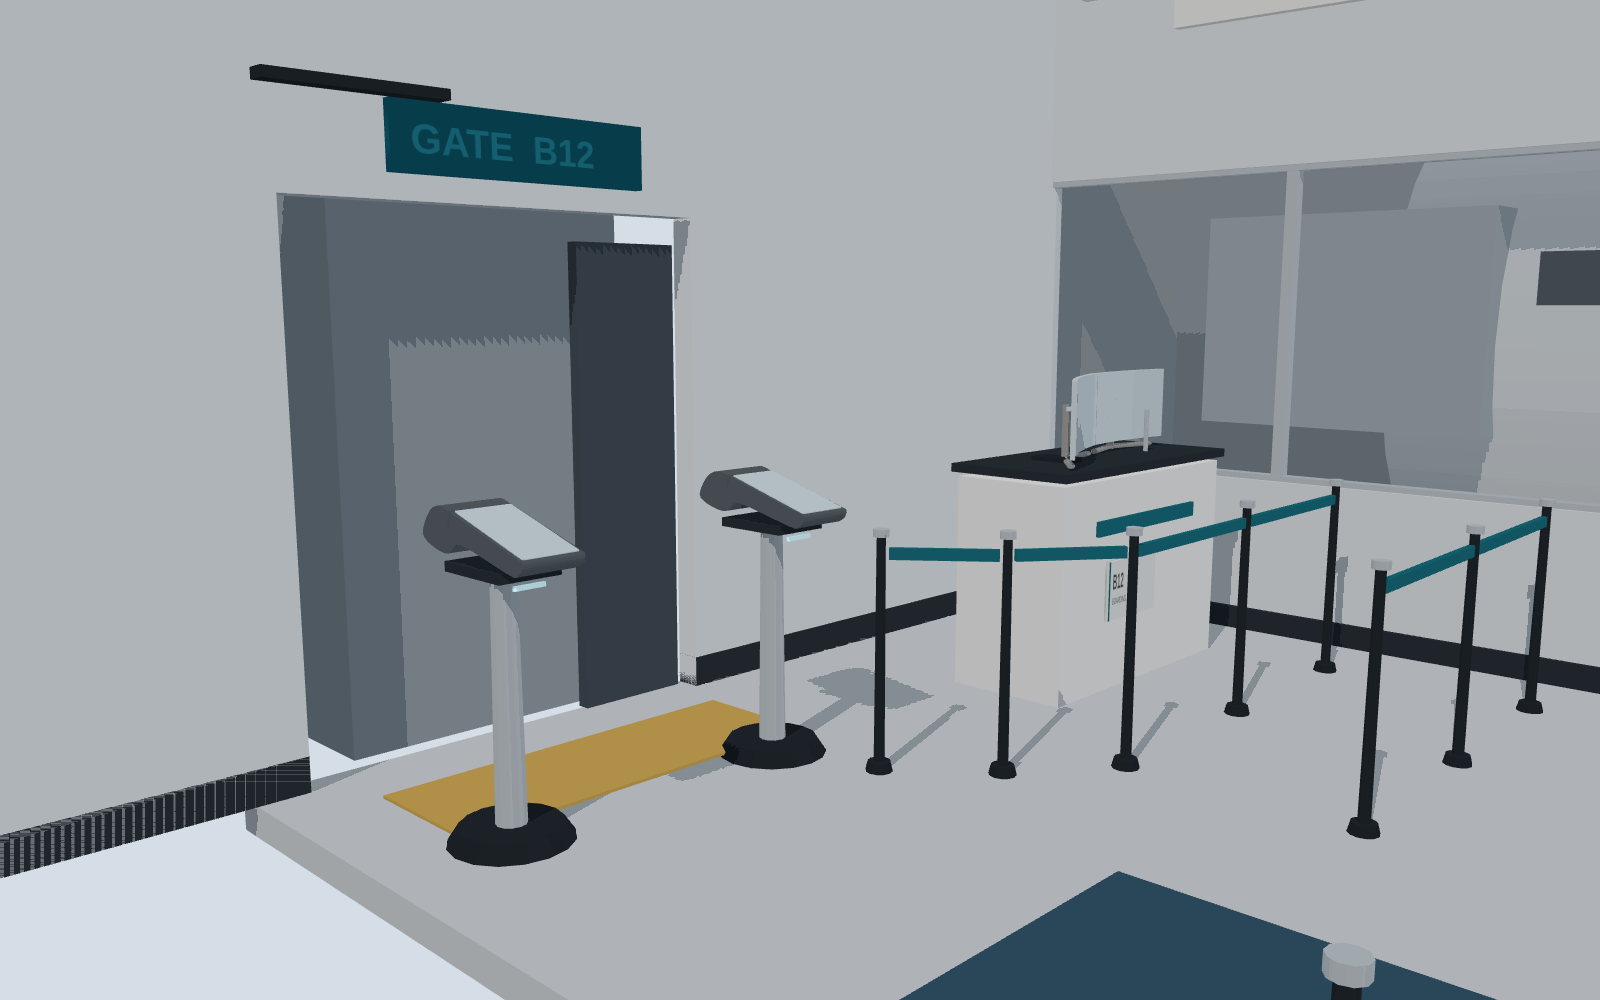
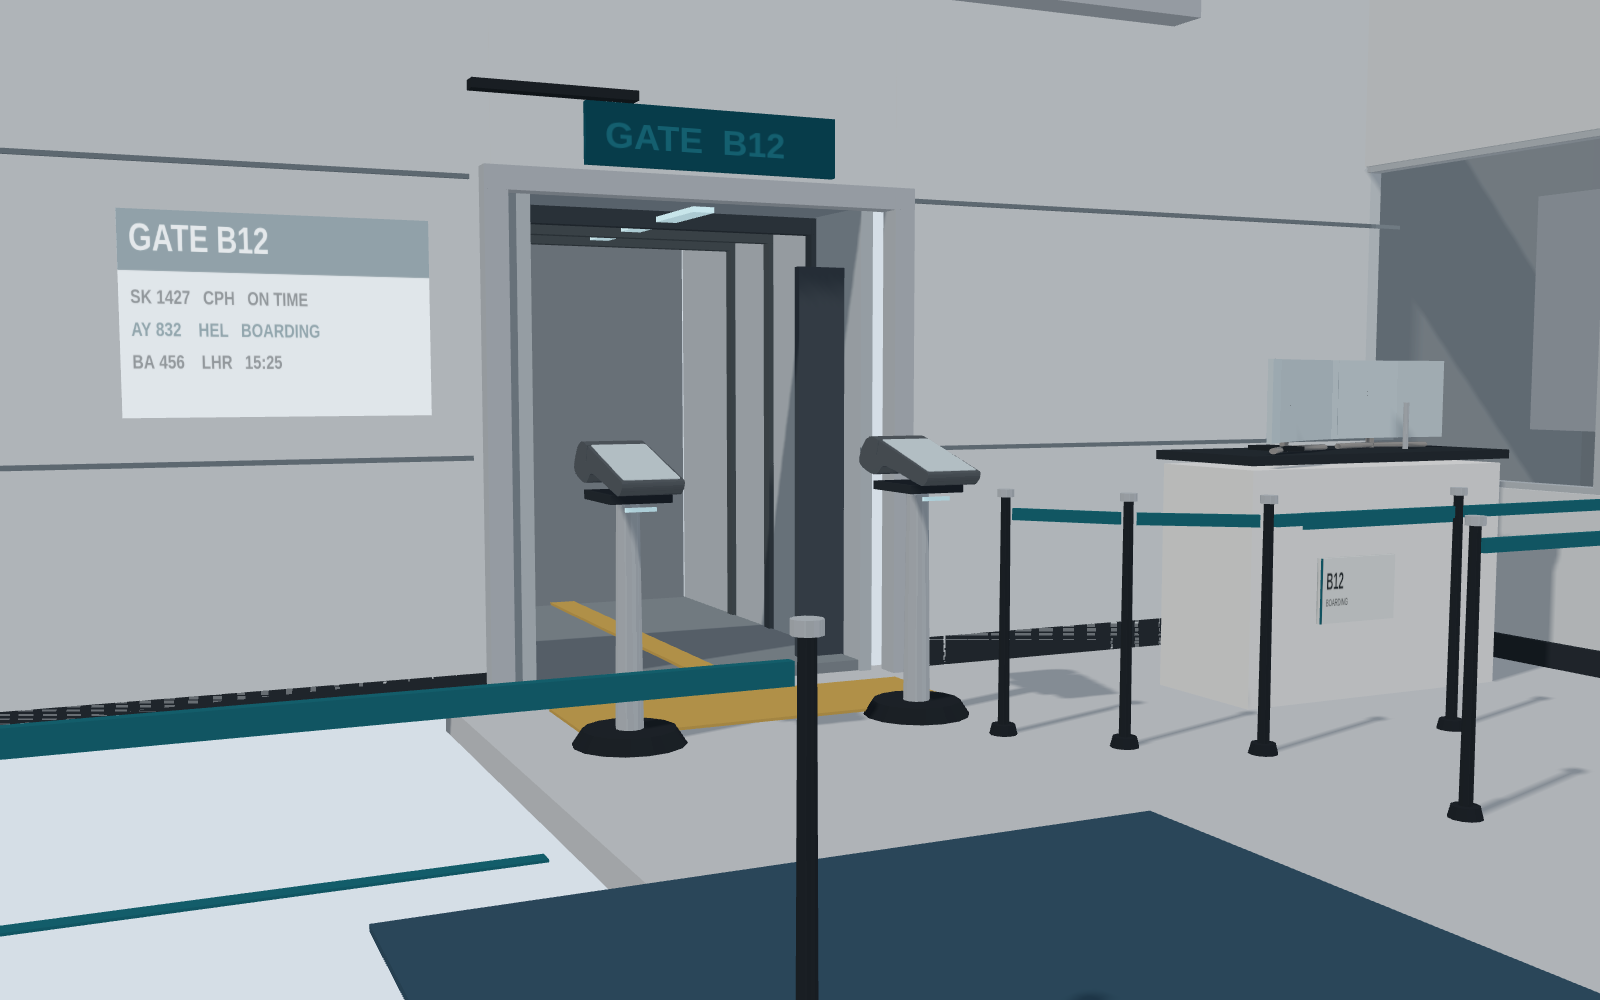
Refine Gate B12 framing, beam seats, and the bridge throat.
Pull the establishing camera under a full soffit so seats, ribbons, and the gate fill the frame. Give the beam seats a pan, reclined back, and headrest, and replace the flat bridge slab with a ribbed throat. Soften thin-object shadows while keeping the four-step toon and MeshBasic unlit.

diff --git a/experiments/indoor30-20261113/airport-gate/gate.js b/experiments/indoor30-20261113/airport-gate/gate.js
@@ -15,19 +15,23 @@ const QUEUE_BELTS = [
 ];
 
 function drawRibbon(ctx, w, h, display) {
-  ctx.fillStyle = '#e6eef3';
+  ctx.fillStyle = '#f4f8fb';
   ctx.fillRect(0, 0, w, h);
-  ctx.fillStyle = '#1a7384';
-  ctx.fillRect(0, 0, w, Math.round(h * 0.22));
-  ctx.fillStyle = '#f5fafc';
-  ctx.font = `600 ${Math.round(h * 0.11)}px sans-serif`;
-  ctx.fillText(display.header, 28, Math.round(h * 0.15));
-  ctx.fillStyle = '#1b2830';
-  ctx.font = `${Math.round(h * 0.09)}px sans-serif`;
+  ctx.fillStyle = '#145e6e';
+  ctx.fillRect(0, 0, w, Math.round(h * 0.3));
+  ctx.fillStyle = '#ffffff';
+  ctx.font = `700 ${Math.round(h * 0.17)}px sans-serif`;
+  ctx.fillText(display.header, 40, Math.round(h * 0.2));
+  const cols = [40, w * 0.34, w * 0.5, w * 0.66];
   display.rows.forEach((row, i) => {
-    const y = Math.round(h * (0.4 + i * 0.18));
-    ctx.fillStyle = row.includes('BOARDING') ? '#1a7384' : '#1b2830';
-    ctx.fillText(row, 28, y);
+    const parts = row.split(/\s{2,}/);
+    const y = Math.round(h * (0.48 + i * 0.16));
+    ctx.font = `700 ${Math.round(h * 0.125)}px sans-serif`;
+    parts.forEach((part, j) => {
+      const status = part === 'BOARDING' || part === 'ON TIME' || part === 'GATE';
+      ctx.fillStyle = status ? '#0f6a78' : '#121920';
+      ctx.fillText(part, cols[j] || 40, y);
+    });
   });
 }
 
@@ -95,10 +99,12 @@ boot({
     addWalls(shell, { addBox, mats, W, D, H, x0, x1, z0, wallT, door: layout.door, innerX0 });
     addWindow(shell, { addBox, addCyl, mats, W, H, z0, wallT, S, x0, x1 });
     addApron(shell, { addBox, addCyl, mats, THREE, W, H, z0, S, layout, x0, x1 });
-    addCeiling(shell, { addBox, mats, H });
+    addCeiling(shell, { addBox, mats, H, x0, x1, z0, D });
     addDoorHead(shell, { addBox, canvasTexture, toon, mats, layout, H });
+    addBridgeThroat(shell, { addBox, mats, toon, door: layout.door });
+    addWallDressing(shell, { addBox, mats, toon, canvasTexture, THREE, W, D, H, x0, x1, door: layout.door });
 
-    for (const bank of layout.seating.banks) addSeatBank(props, bank, layout, { addBox, mats, addContact });
+    for (const bank of layout.seating.banks) addSeatBank(props, bank, layout, { addBox, addCyl, mats, addContact });
     for (const display of layout.displays) addRibbon(props, display, { addBox, THREE, canvasTexture, toon, mats, H });
     addPodium(props, layout.podium, { addBox, addCyl, mats, canvasTexture, toon });
     for (const scanner of layout.scanners) addScanner(props, scanner, { addBox, addCyl, mats });
@@ -138,9 +144,6 @@ function addWalls(shell, ctx) {
   addBox(shell, 0.9, H, wallT, mats.wall, x0 + 0.45, H / 2, z0 + D - wallT / 2);
   addBox(shell, 0.9, H, wallT, mats.wall, x1 - 0.45, H / 2, z0 + D - wallT / 2);
   addBox(shell, W, 0.08, 0.08, mats.base, 0, 0.04, z0 + D - 0.04, { cast: false });
-
-  addBox(shell, 1.15, 2.4, 1.35, mats.bridge, west - 0.72, 1.2, door.z, { receive: true });
-  addBox(shell, 0.06, door.h - 0.12, door.w * 0.28, mats.shell, west - 0.06, (door.h - 0.12) / 2, door.z - door.w * 0.34);
 }
 
 function addWindow(shell, ctx) {
@@ -192,14 +195,101 @@ function addApron(shell, ctx) {
 }
 
 function addCeiling(shell, ctx) {
-  const { addBox, mats, H } = ctx;
-  addBox(shell, 12.6, 0.08, 6.8, mats.ceiling, 0.2, H - 0.08, -1.15, { cast: false });
-  for (let z = -4.35; z <= 1.9; z += 0.85) {
-    addBox(shell, 12.2, 0.28, 0.05, mats.ceiling, 0.15, H - 0.32, z, { cast: false });
+  const { addBox, mats, H, x0, x1, z0, D } = ctx;
+  const span = (x1 - x0) + 0.6;
+  const depth = D + 0.3;
+  const zc = z0 + D / 2;
+  addBox(shell, span, 0.1, depth, mats.ceiling, 0, H - 0.05, zc, { cast: false });
+  const zFascia = z0 + D + 0.08;
+  addBox(shell, span, 0.38, 0.14, mats.metal, 0, H - 0.26, zFascia, { cast: false });
+  for (let z = z0 + 0.85; z <= z0 + D - 0.7; z += 0.95) {
+    addBox(shell, span - 0.8, 0.16, 0.04, mats.ceiling, 0, H - 0.2, z, { cast: false });
   }
-  for (let z = -3.95; z <= 1.5; z += 1.7) {
-    addBox(shell, 8.4, 0.03, 0.08, mats.led, 0.2, H - 0.5, z, { cast: false, receive: false });
+  for (let z = z0 + 1.3; z <= z0 + D - 1.4; z += 1.7) {
+    addBox(shell, span * 0.62, 0.02, 0.06, mats.led, 0.15, H - 0.34, z, { cast: false, receive: false });
   }
+}
+
+function addBridgeThroat(shell, ctx) {
+  const { addBox, mats, toon, door } = ctx;
+  const mouth = door.x - 0.02;
+  const length = 2.35;
+  const far = mouth - length;
+  const mid = mouth - length / 2;
+  const innerW = door.w - 0.28;
+  const crown = 2.22;
+  const rib = toon('#4e585f');
+  const liner = toon('#c5d0d8');
+  const end = toon('#8b969f');
+  addBox(shell, length, 0.05, innerW - 0.08, end, mid, 0.03, door.z, { cast: false });
+  addBox(shell, length, 0.014, 0.14, mats.yellow, mid, 0.065, door.z, { cast: false, receive: false });
+  addBox(shell, length, crown, 0.06, liner, mid, crown / 2, door.z - innerW / 2, { cast: false });
+  addBox(shell, length, crown, 0.06, liner, mid, crown / 2, door.z + innerW / 2, { cast: false });
+  addBox(shell, length, 0.07, innerW + 0.1, liner, mid, crown - 0.02, door.z, { cast: false });
+  addBox(shell, 0.08, crown, innerW - 0.1, end, far, crown / 2, door.z, { cast: false });
+  for (let i = 1; i <= 3; i += 1) {
+    const x = mouth - i * 0.52;
+    addBox(shell, 0.07, 0.08, innerW + 0.02, rib, x, crown - 0.1, door.z, { cast: false });
+    addBox(shell, 0.07, crown - 0.08, 0.07, rib, x, (crown - 0.08) / 2, door.z - innerW / 2 + 0.02, { cast: false });
+    addBox(shell, 0.07, crown - 0.08, 0.07, rib, x, (crown - 0.08) / 2, door.z + innerW / 2 - 0.02, { cast: false });
+  }
+  addBox(shell, 0.12, door.h + 0.06, 0.1, mats.metal, mouth + 0.05, door.h / 2, door.z - door.w / 2, { cast: false });
+  addBox(shell, 0.12, door.h + 0.06, 0.1, mats.metal, mouth + 0.05, door.h / 2, door.z + door.w / 2, { cast: false });
+  addBox(shell, 0.12, 0.1, door.w + 0.1, mats.metal, mouth + 0.05, door.h + 0.02, door.z, { cast: false });
+  addBox(shell, 0.05, door.h - 0.28, 0.28, mats.shell, mouth - 0.2, (door.h - 0.28) / 2, door.z - door.w * 0.36, { cast: false });
+  addBox(shell, 1.1, 0.025, 0.1, mats.led, mouth - 0.55, crown - 0.1, door.z, { cast: false, receive: false });
+  addBox(shell, 0.7, 0.025, 0.1, mats.led, mouth - 1.5, crown - 0.1, door.z, { cast: false, receive: false });
+}
+
+function addWallDressing(shell, ctx) {
+  const { addBox, mats, toon, canvasTexture, THREE, x0, x1, door } = ctx;
+  const east = x1 - 0.14;
+  const west = x0 + 0.16;
+  const joint = toon('#7d8b96');
+  for (const y of [1.45, 2.05, 3.05]) {
+    addBox(shell, 0.02, 0.025, 9.4, joint, east, y, -0.15, { cast: false, receive: false });
+  }
+  for (let z = -4.4; z <= 4.4; z += 1.7) {
+    addBox(shell, 0.02, 2.15, 0.025, joint, east, 2.35, z, { cast: false, receive: false });
+  }
+  const glazeZ0 = -3.2;
+  const glazeZ1 = 2.45;
+  const glazeZC = (glazeZ0 + glazeZ1) / 2;
+  const glazeL = glazeZ1 - glazeZ0;
+  const glazeY = 2.2;
+  const glazeH = 1.7;
+  const pane = toon('#6e8ea3', { transparent: true, opacity: 0.55, side: THREE.DoubleSide, depthWrite: false });
+  addBox(shell, 0.05, glazeH, glazeL, toon('#9aafbf'), east + 0.02, glazeY, glazeZC, { cast: false });
+  addBox(shell, 0.02, glazeH - 0.08, glazeL - 0.08, pane, east - 0.03, glazeY, glazeZC, { cast: false, receive: false });
+  addBox(shell, 0.03, 0.05, glazeL, mats.metal, east - 0.03, glazeY + glazeH / 2, glazeZC, { cast: false });
+  addBox(shell, 0.03, 0.05, glazeL, mats.metal, east - 0.03, glazeY - glazeH / 2, glazeZC, { cast: false });
+  for (let z = glazeZ0; z <= glazeZ1; z += 0.95) {
+    addBox(shell, 0.035, glazeH, 0.045, mats.metal, east - 0.035, glazeY, z, { cast: false });
+  }
+  addBox(shell, 0.02, 0.04, 8.6, mats.teal, east - 0.02, 1.32, -0.35, { cast: false });
+
+  for (const y of [1.05, 2.2]) {
+    addBox(shell, 0.015, 0.02, 3.3, joint, west, y, -3.55, { cast: false, receive: false });
+    addBox(shell, 0.015, 0.02, 3.6, joint, west, y, 1.7, { cast: false, receive: false });
+  }
+  const tex = canvasTexture((c, w, h) => {
+    c.fillStyle = '#f7fafc';
+    c.fillRect(0, 0, w, h);
+    c.fillStyle = '#145e6e';
+    c.fillRect(0, 0, w, 150);
+    c.fillStyle = '#ffffff';
+    c.font = '700 92px sans-serif';
+    c.fillText('GATE B12', 36, 100);
+    c.fillStyle = '#142028';
+    c.font = '700 48px sans-serif';
+    c.fillText('SK 1427   CPH   ON TIME', 36, 230);
+    c.fillStyle = '#0f6a78';
+    c.fillText('AY 832    HEL   BOARDING', 36, 310);
+    c.fillStyle = '#142028';
+    c.fillText('BA 456    LHR   15:25', 36, 390);
+  }, 1024, 512);
+  const plate = toon('#f7fafc', { map: tex, emissive: '#e7eef3', emissiveIntensity: 0.35 });
+  addBox(shell, 0.03, 0.78, 1.15, plate, west + 0.02, 1.62, door.z + door.w / 2 + 0.85, { cast: false });
 }
 
 function addDoorHead(shell, ctx) {
@@ -218,33 +308,40 @@ function addDoorHead(shell, ctx) {
 }
 
 function addSeatBank(props, bank, layout, ctx) {
-  const { addBox, mats, addContact } = ctx;
+  const { addBox, addCyl, mats, addContact } = ctx;
   const seating = layout.seating;
   const bounds = bankBounds(bank, seating);
   const seatLen = bank.seats * seating.pitch;
   const beamLen = bounds.z1 - bounds.z0 - 0.06;
   const beamZ = (bounds.z0 + bounds.z1) / 2;
-  addBox(props, 0.07, 0.05, beamLen, mats.beam, bank.x + 0.04, 0.2, beamZ);
-  const legZs = [bounds.z0 + 0.1, (bounds.z0 + bounds.z0 + seatLen) / 2, bounds.z1 - 0.1];
+  addBox(props, 0.08, 0.045, beamLen, mats.beam, bank.x, 0.18, beamZ);
+  const legZs = [bounds.z0 + 0.12, bounds.z0 + seatLen / 2, bounds.z1 - 0.12];
   for (const lz of legZs) {
-    addBox(props, 0.05, 0.2, 0.055, mats.metal, bank.x + 0.04, 0.1, lz);
-    addBox(props, 0.32, 0.028, 0.07, mats.metal, bank.x, 0.018, lz);
+    addCyl(props, 0.022, 0.028, 0.16, mats.metal, bank.x - 0.1, 0.08, lz, 10);
+    addCyl(props, 0.022, 0.028, 0.16, mats.metal, bank.x + 0.12, 0.08, lz, 10);
+    addBox(props, 0.3, 0.018, 0.05, mats.metal, bank.x, 0.012, lz);
   }
+  const gap = seating.pitch * 0.18;
   for (let i = 0; i < bank.seats; i += 1) {
     const z = bounds.z0 + seating.pitch * (i + 0.5);
-    const xBack = bounds.x1 - 0.04;
-    addBox(props, 0.36, 0.055, seating.pitch * 0.78, mats.cushion, bank.x - 0.04, seating.seatHeight, z);
-    addBox(props, 0.07, 0.045, seating.pitch * 0.72, mats.cushion, bounds.x0 + 0.08, seating.seatHeight - 0.02, z);
-    addBox(props, 0.05, 0.4, seating.pitch * 0.8, mats.shell, xBack, 0.7, z);
-    addBox(props, 0.04, 0.14, seating.pitch * 0.58, mats.shell, xBack + 0.012, seating.backHeight, z);
-    addBox(props, 0.028, 0.16, seating.pitch * 0.68, mats.cushion, xBack - 0.03, 0.6, z);
+    const backW = seating.pitch - gap;
+    addBox(props, 0.36, 0.065, backW * 0.92, mats.cushion, bank.x - 0.1, seating.seatHeight, z);
+    const nose = addCyl(props, 0.032, 0.032, backW * 0.84, mats.cushion, bounds.x0 + 0.04, seating.seatHeight - 0.008, z, 12);
+    nose.rotation.x = Math.PI / 2;
+    const back = addBox(props, 0.038, 0.38, backW * 0.84, mats.shell, bank.x + 0.05, 0.66, z);
+    back.rotation.z = -0.32;
+    addBox(props, 0.03, 0.1, backW * 0.72, mats.cushion, bank.x + 0.01, 0.52, z);
+    const head = addBox(props, 0.036, 0.09, backW * 0.46, mats.shell, bank.x + 0.12, 0.86, z);
+    head.rotation.z = -0.28;
+    const crown = addCyl(props, 0.02, 0.02, backW * 0.42, mats.shell, bank.x + 0.145, 0.91, z, 10);
+    crown.rotation.x = Math.PI / 2;
   }
   for (let i = 0; i <= bank.seats; i += 1) {
     const z = bounds.z0 + seating.pitch * i;
-    addBox(props, 0.28, 0.032, 0.038, mats.metal, bank.x - 0.02, 0.63, z);
-    addBox(props, 0.032, 0.18, 0.038, mats.metal, bank.x + 0.1, 0.54, z);
+    addBox(props, 0.18, 0.026, 0.03, mats.metal, bank.x - 0.04, 0.56, z);
+    addCyl(props, 0.012, 0.014, 0.12, mats.metal, bank.x + 0.04, 0.5, z, 8);
     if (bank.armPower && i === 1) {
-      addBox(props, 0.045, 0.012, 0.02, mats.led, bank.x - 0.08, 0.652, z, { cast: false });
+      addBox(props, 0.04, 0.01, 0.018, mats.led, bank.x - 0.08, 0.578, z, { cast: false });
     }
   }
   addContact(bank.x, 0.014, bank.z, 0.42, seatLen * 0.42);
@@ -256,8 +353,8 @@ function addSeatBank(props, bank, layout, ctx) {
 
 function addRibbon(props, display, ctx) {
   const { addBox, THREE, canvasTexture, toon, mats, H } = ctx;
-  const tex = canvasTexture((c, w, h) => drawRibbon(c, w, h, display), 1024, 320);
-  const face = toon('#e6eef3', { map: tex, emissive: '#d5e4ec', emissiveIntensity: 0.4 });
+  const tex = canvasTexture((c, w, h) => drawRibbon(c, w, h, display), 2048, 768);
+  const face = toon('#f4f8fb', { map: tex, emissive: '#eef3f6', emissiveIntensity: 0.55 });
   const plane = new THREE.Mesh(new THREE.PlaneGeometry(display.width, display.height), face);
   plane.rotation.y = Math.PI / 2;
   plane.position.set(display.x, display.y, display.z);

diff --git a/experiments/indoor30-20261113/airport-gate/scene_runtime.js b/experiments/indoor30-20261113/airport-gate/scene_runtime.js
@@ -249,7 +249,7 @@ export async function boot({ build }) {
   renderer.setPixelRatio(Math.min(devicePixelRatio, 2));
   renderer.setSize(innerWidth, innerHeight);
   renderer.shadowMap.enabled = true;
-  renderer.shadowMap.type = THREE.PCFHardShadowMap;
+  renderer.shadowMap.type = THREE.PCFSoftShadowMap;
   renderer.outputColorSpace = THREE.SRGBColorSpace;
   renderer.toneMapping = THREE.NoToneMapping;
   const clear = shellColors.clearColor || '#d5dee6';
@@ -282,8 +282,9 @@ export async function boot({ build }) {
   key.shadow.camera.right = 12;
   key.shadow.camera.top = 12;
   key.shadow.camera.bottom = -12;
-  key.shadow.bias = -0.00045;
-  key.shadow.normalBias = 0.045;
+  key.shadow.bias = -0.00025;
+  key.shadow.normalBias = 0.08;
+  key.shadow.radius = 3;
   key.target.position.set(...keySpec.target);
   scene.add(key.target);
   scene.add(key);

diff --git a/experiments/indoor30-20261113/airport-gate/refs/GAP.md b/experiments/indoor30-20261113/airport-gate/refs/GAP.md
@@ -18,8 +18,10 @@ No beam seat, gate podium, stanchion, or flight ribbon exists in those bakes. `s
 
 ## Still open
 
-- The apron is a cropped fuselage and a short bridge throat. It does not show a docked airliner, a taxiway, or a terminal exterior.
-- Flight ribbons are canvas panels, not split-flap or LCD glass.
+- The apron is a cropped fuselage. The jet-bridge is a ribbed throat at the door, not a docked airliner, taxiway, or terminal exterior.
+- Flight ribbons and the gate-wall plate are canvas panels, not split-flap or LCD glass. Type is columned so it can be read from the holdroom cameras.
+- Beam seats are still procedural shells: a pan, a reclined back, and a headrest on the shared beam. They are not a catalog beam-seat mesh.
+- The band above the charging ledge is a mullioned panel, not exterior glazing. A grey spandrel remains between the ledge and that band.
 - The floor access mark is a simple symbol, not a standard wheelchair pictogram.
 - No passengers, luggage fleet, or PA speaker that matches a ceiling horn.
-- Hard shadow steps remain on stanchion posts and seat legs. The toon ramp starts at 104/255 so the shadow band is not black; the unlit pass confirms the dark seats are the material, not crushed lighting.
+- The toon ramp still starts at 104/255. Shadow maps are softened for thin posts and legs; the four toon steps stay hard. Unlit is `MeshBasicMaterial` with the shadow map off.

diff --git a/experiments/indoor30-20261113/airport-gate/README.md b/experiments/indoor30-20261113/airport-gate/README.md
@@ -14,7 +14,9 @@ python3 -m http.server 8771 --bind 127.0.0.1
 
 http://127.0.0.1:8771/experiments/indoor30-20261113/airport-gate/
 
-`T` toon (hard 4-step, default) · `U` unlit (`MeshBasicMaterial`, shadow map off) · `?mode=unlit` · `?cam=corner` · `?cam=detail` · `?hud=0`
+`T` toon (hard 4-step, default) · `U` unlit (`MeshBasicMaterial`, shadow map off) · `?mode=unlit` · `?cam=corner` · `?cam=close` · `?hud=0`
+
+The toon ramp stays four hard steps. Shadow maps are soft (`PCFSoftShadowMap`, radius 3) so thin posts and seat legs do not stair-step. Unlit turns the shadow map off.
 
 ## Check
 
@@ -24,4 +26,4 @@ node experiments/indoor30-20261113/airport-gate/tests/layout.test.mjs
 
 The test checks repo-root asset paths, seat facing, rank and cross-aisle clearances, the accessible lane, scanner approach paths, ribbon size, and that unlit is basic-material.
 
-Shots in `shots/`: `airport-gate_toon_default`, `airport-gate_toon_corner`, `airport-gate_toon_detail`, `airport-gate_unlit_default`.
+Shots in `shots/`: `airport-gate_toon_default`, `airport-gate_toon_corner`, `airport-gate_toon_close`, `airport-gate_unlit_default`.
